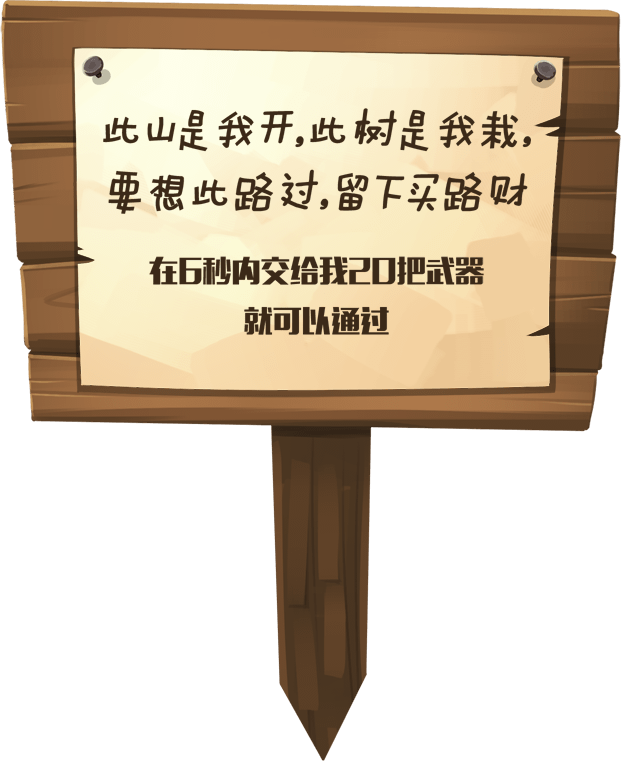
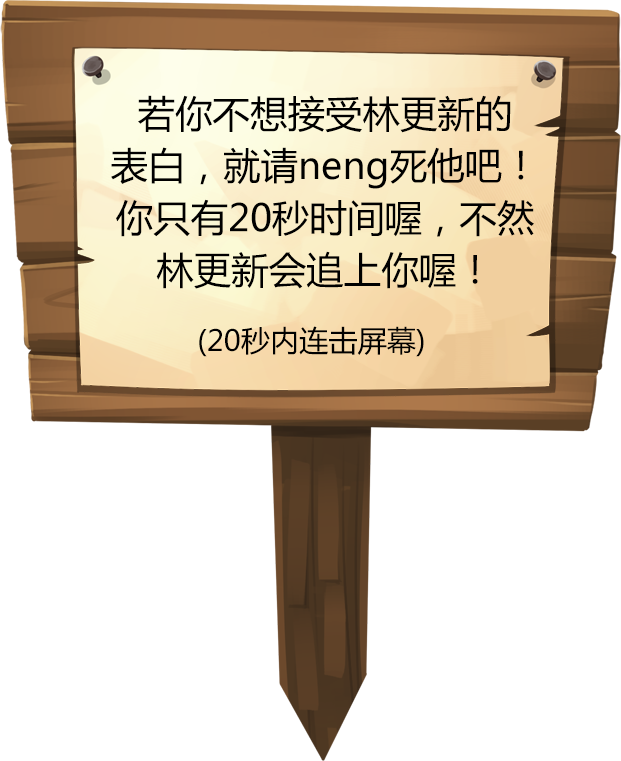
落地页

Changed region(s): [[0.153, 0.1209, 0.8567, 0.4836]]

diff --git a/wb/20160304/src/css/index.less b/wb/20160304/src/css/index.less
@@ -61,6 +61,19 @@
         }
     }
 }
+.wuqi_ani(@n:wuqi_ani){
+    .keyframes(@n);
+    .-frames(@-...){
+        0% {
+            @{-}transform:scale(8) translateX(-50%);
+            opacity: 0;
+        }
+        100% {
+            opacity: 1;
+            @{-}transform:scale(1) translateX(-50%);
+        }
+    }
+}
 
 body{
     background: #ebebeb;
@@ -96,7 +109,7 @@ body{
         padding:0.2rem 0;
         margin:0 auto;
         position: relative;
-        border-bottom: 1px solid #4f637e;        
+        border-bottom: 1px solid #4f637e;
         p{
             padding-left: 0.5rem;
             font-size: 0.26rem;
@@ -121,28 +134,32 @@ body{
             
         }
         &:nth-of-type(1){
+            .fadeInUp();
+            .animation(fadeInUp ease-out 0.3s 0.3s backwards);
             .m-mess-icon{
                 background-image: url(../img/icon01.png?__inline);
             }
         }
         &:nth-of-type(2){
+            .animation(fadeInUp ease-out 0.3s 0.7s backwards);
             .m-mess-icon{
                 background-image: url(../img/icon02.png?__inline);
             }
         }
         &:nth-of-type(3){
+            .animation(fadeInUp ease-out 0.3s 1.1s backwards);
             .m-mess-icon{
                 background-image: url(../img/icon03.png?__inline);
             }
         }
         &:nth-of-type(4){
+            .animation(fadeInUp ease-out 0.3s 1.5s backwards);
             .m-mess-icon{
                 background-image: url(../img/icon04.png?__inline);
             }
         }
         &:nth-of-type(5){
-            .fadeInUp();
-            .animation(fadeInUp ease-out 0.4s 1.3s backwards);
+            .animation(fadeInUp ease-out 0.3s 1.9s backwards);
             .m-mess-icon{
                 background-image: url(../img/icon05.png?__inline);
             }
@@ -425,7 +442,7 @@ body{
     background-repeat: no-repeat;
     position: relative;
     z-index: 1;
-    .game-time,.game-hit,.game-rule,.game-peo span,.game-play,.game-btn a,.bottom-bg{
+    .game-time,.game-hit,.game-rule,.game-peo span,.game-play,.game-btn a,.bottom-bg,.wuqi{
         background-size: 100%;
         background-repeat: no-repeat;
     }
@@ -442,8 +459,10 @@ body{
         overflow: hidden;
         font-size: 0.24rem;
         color:#fff;
-        padding:0.25rem 0.15rem;
+        padding:0.25rem 0.05rem;
         opacity:0;
+        position: relative;
+        z-index: 30;
         .game-time{
             float:left;
             width: 4.4rem;
@@ -459,7 +478,7 @@ body{
                 background-size: 2.86rem;
                 background-repeat: no-repeat;
                 background-image: url(../img/game03.png);
-                .transition(width linear 6s);
+                .transition(width linear 20s);
             }
             i{
                 font-size: 0.58rem;
@@ -479,8 +498,9 @@ body{
             font-weight: bold;
             font-style: italic;
             text-shadow:2px 2px 0.04rem #000;
-            width: 0.85rem;
+            width: 1.2rem;
             height:1.18rem;
+            text-align: center;
             line-height: 1.08rem;
             padding-left: 1.7rem;
             background-size:auto 100%;
@@ -537,7 +557,7 @@ body{
         display: none;
         a{            
             width: 2.1rem;
-            height: 2.06rem;
+            height: 2rem;
             margin:0 0.4rem;
             opacity:0;
             &:nth-of-type(1){
@@ -570,7 +590,7 @@ body{
         left: 50%;
         margin-top: -2rem;
         .transform(translateX(-50%));
-        z-index: 15;
+        z-index: 25;
         display: none;
         .transition(opacity ease 0.3s);
     }
@@ -612,6 +632,38 @@ body{
             }
         }
     }
+    .wuqi{
+        position: absolute;
+        z-index: 20;
+        left: 50%;
+        top: 3.7rem;
+        .wuqi_ani();
+        .animation(wuqi_ani ease-in 0.15s 0s both);
+        &.wuqi1{
+            width: 2.44rem;
+            height: 2.77rem;
+            background-image: url(../img/wuqi1.png);
+        }
+        &.wuqi2{
+            width: 3.2rem;
+            height: 3.38rem;
+            background-image: url(../img/wuqi2.png);
+        }
+        &.wuqi3{
+            width: 2.63rem;
+            height: 2.65rem;
+            background-image: url(../img/wuqi3.png);
+        }
+        &.wuqi4{
+            width: 1.96rem;
+            height: 2.08rem;
+            background-image: url(../img/wuqi4.png);
+        }
+        // &.show{
+            
+
+        // }
+    }
 }
 .stage4{
     background: #000;
@@ -620,13 +672,33 @@ body{
     }
 }
 .stage5{
-    background-color: #fff;
-    background-size: 9.5rem;
-    background-position: center;
+    background-size: 100%;
+    background-image: url(../img/bg03.jpg);
     z-index: 1;
+    .stage-video{
+        width: 6.5rem;
+        height: 4.22rem;
+        margin: 4rem auto 0.5rem;
+        background-size: 100%;
+        background-repeat: no-repeat;
+        background-image: url(../img/bg04.png);
+        display: block;
+        overflow: hidden;
+        span{
+            width: 1.38rem;
+            height: 1.38rem;
+            display: block;
+            margin: 1.8rem auto 0;
+            background-size: 100%;
+            background-repeat: no-repeat;
+            background-image: url(../img/btn02.png);
+            .pulse(1.15);
+            .animation(pulse ease-in-out 1.5s 0s infinite alternate both);
+        }
+    }
     .btn{
-        width:3.3rem;
-        height:1.3rem;
+        width:4.22em;
+        height:1.29rem;
         display: block;
         margin: -0.12rem auto 0;
         background-size: 100%;
@@ -634,12 +706,12 @@ body{
         position: relative;
         &.btnA{
             z-index: 5;
-            background-image: url(../img/icon09.png);
+            background-image: url(../img/btn01.png);
         }
-        &.btnB{
-            margin-top: -0.15rem;
-            background-image: url(../img/icon10.png);
-        }
+        // &.btnB{
+        //     margin-top: -0.15rem;
+        //     background-image: url(../img/icon10.png);
+        // }
     }
     .stage-pop{
         position: absolute;
@@ -668,23 +740,6 @@ body{
         }
         &.show{
             opacity: 1;
-        }
-    }
-    p{
-        font-size: 0.34rem;
-        height:0.6rem;
-        line-height: 0.6rem;
-        text-align: center;
-        background: #000;
-        width:5.6rem;
-        margin:0 auto;
-        &.p1{
-            color:#f6a83d;
-            margin-top: 6rem;
-        }
-        &.p2{
-            color:#00c5ff;
-            margin-top: 0.2rem;
         }
     }
 }

diff --git a/wb/20160304/src/js/app/index.js b/wb/20160304/src/js/app/index.js
@@ -42,10 +42,11 @@ var Index = function(){
 
         showEle($stages.eq(0));
         // playGame();
+        // jumpLastStage();
 
         setTimeout(function(){
             _messaudio.play();
-        },800)
+        },1800)
         // stage1
 
         $messbtn[0].addEventListener('touchstart', _events, false);
@@ -85,20 +86,26 @@ var Index = function(){
             document.title = '林更新';
             swiper.onResize();
         },50)
-
-        var inter = setInterval(function(){
-            if(num == len){
-                clearInterval(inter);
-                showEle($('#Jchose'));
-                choseFun();
-                return;
-            }
+        setTimeout(function(){
+            addmess();
+            var inter = setInterval(function(){
+                if(num == len){
+                    clearInterval(inter);
+                    showEle($('#Jchose'));
+                    choseFun();
+                    return;
+                }
+                addmess();
+            },1500);
+        },900)
+        
+        function addmess(){
             _messaudio.play();
             showEle($p.eq(num));
             swiper.onResize();
             swiper.slideNext();
             num++;
-        },1550);
+        }
     },
     choseFun = function(){
         var $btns = $('#Jchose .chose-btn a');
@@ -135,20 +142,21 @@ var Index = function(){
                     addEvent($gamestage.find('.game-btn a'));
                     // 计时
                     $gamestage.find('.game-time span').addClass('on');
-                    changeTime($gamestage.find('.game-time i'), 6,function(ele){
+                    changeTime($gamestage.find('.game-time i'), 20,function(ele){
                         ele.text('0');
                         $num.css('width','85%');
                         if(_hitnum >= 20){
-                            $num.find('i').text('恭喜通过!');
+                            $num.find('i').text('已neng死他!');
                         }else{
                             $num.find('i').text('Game Over!');
                         }
                         showEle($num);
                         $gamestage.find('.game-btn').hide();
 
-                        //游戏结束3s后播放视频
+                        //游戏结束3s后去到落地页
                         setTimeout(function(){
-                            playVideo();
+                            // playVideo();
+                            jumpLastStage();
                         },3000)
                         
                     })
@@ -172,7 +180,19 @@ var Index = function(){
                 $peo.removeClass('on');
                 _hitnum++;
                 $hit.text(_hitnum);
+                addWuqi();
             })
+        }
+        function randomNum(n,m){
+            var c = m - n + 1;
+            return Math.floor(Math.random() * c + n);
+        }
+        function addWuqi(){
+            var n = randomNum(1,4),
+                t = Math.random() * 5 - 2.5,
+                l = Math.random() * 5 - 2.5,
+                html = '<div class="wuqi wuqi'+n+'" style="margin:'+t+'rem 0 0 '+l+'rem"></div>';
+            $gamestage.append(html);
         }
     },
     changeTime = function(ele, time, endfn){
@@ -231,6 +251,10 @@ var Index = function(){
     jumpLastStage = function(){
         $stages.eq(3).hide();
         showEle($stages.eq(4));
+        $('#Jvideobtn')[0].addEventListener("click",function(evt) {
+            playVideo();
+            $stages.eq(4).hide().removeClass('show');
+       });
     },
     randomNum = function(n,m){
         var c = m - n + 1;
